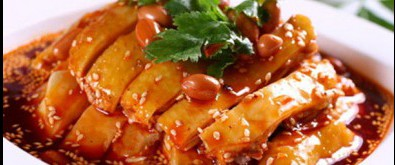
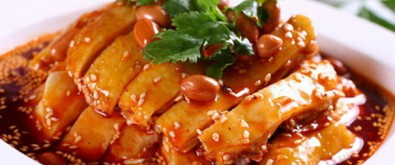
new sidedish table

diff --git a/application/views/admin/sideDishDetail.php b/application/views/admin/sideDishDetail.php
@@ -169,19 +169,19 @@
                                                     <div class="row bootstrap-admin-light-padding-bottom">
                                                         <div class="col-md-4">
                                                             <a class="thumbnail">
-                                                                <img data-src="holder.js/260x180" alt="260x180" style="width: 100%; height: 100%;" src="/copex/upload/<?php
+                                                                <img data-src="holder.js/260x180" alt="260x180" style="width: 100%; height: 100%;" src="/copex/upload/side/<?php
                                                                 if(isset($_SESSION['upload'])){
-                                                                    echo $_SESSION['upload']['upload_data']['raw_name'];
+                                                                    echo $_SESSION['upload'];
                                                                 }else{
                                                                     echo  $_SESSION['side']->spicture;
                                                                 }
-                                                                ?>.jpg">
+                                                                ?>">
                                                             </a>
                                                             <?php
 
-                                                            echo '<input form="editSideDish" type="hidden" name="dishPicture" value="';
+                                                            echo '<input form="uploadSideDish" type="hidden" name="dishPicture" value="';
                                                             if(isset($_SESSION['upload'])){
-                                                                echo $_SESSION['upload']['upload_data']['raw_name'];
+                                                                echo $_SESSION['upload'];
                                                             }else{
                                                                 echo $_SESSION['side']->spicture;
                                                             }
@@ -189,26 +189,22 @@
 
                                                             ?>
                                                         </div>
+                                                        <div class="col-lg-4">
+                                                            <input form="uploadSideDish" class="form-control" type="file" name="userfile" />
+                                                            <!--                                                        </div>-->
+                                                            <div style="margin-top: 10px;">
+                                                                <span style="margin-top: 10px;">
 
-                                                        <div class="col-md-8">
-                                                            <label class="col-lg-2 control-label">更换图片:</label>
-                                                        </div>
-                                                        <div class="col-lg-8" style="margin-top: 10px;">
+                                                                    <input form="uploadSideDish" type="submit" class="btn btn-sm btn-info" name="picture" value=" 确认上传"/>
 
-                                                            <input form="uploadSideDish" class="form-control" type="file" name="picture" />
-                                                        </div>
-                                                        <div class="col-lg-8" style="margin-top: 10px;">
-                                                            <span>
-                                                                <button form="uploadSideDish" type="submit" class="btn btn-sm btn-info">
-                                                                    <i class="glyphicon glyphicon-upload"> 确认上传</i>
-                                                                </button>
-                                                            </span>
-                                                            <span>
-                                                                <?php
-                                                                $attributes_undo = array('class'=>'btn btn-sm btn-default','type'=>'reset');
-                                                                echo anchor('dishcontroller/undoSideDish','<i class="glyphicon glyphicon-refresh"> 取消修改</i>',$attributes_undo);
-                                                                ?>
-                                                            </span>
+                                                                </span>
+                                                                <span>
+                                                                    <?php
+                                                                    $attributes_undo = array('class'=>'btn btn-sm btn-default','type'=>'reset');
+                                                                    echo anchor('dishcontroller/undoFood',' 取消修改',$attributes_undo);
+                                                                    ?>
+                                                                </span>
+                                                            </div>
                                                         </div>
                                                     </div>
                                                 </div>

diff --git a/application/models/pictureupload.php b/application/models/pictureupload.php
@@ -11,6 +11,7 @@ class Pictureupload extends CI_Model{
     var $picture_path;
     var $picture_recomd_path;
     var $picture_normal_path;
+    var $picture_side_path;
     var $file_name;
 
     function __construct(){
@@ -19,17 +20,18 @@ class Pictureupload extends CI_Model{
         $this->picture_path = realpath(APPPATH.'../upload');
         $this->picture_recomd_path = realpath(APPPATH.'../upload/recommend');
         $this->picture_normal_path = realpath(APPPATH.'../upload/normal');
+        $this->picture_side_path = realpath(APPPATH.'../upload/side');
     }
 
-    function do_upload(){
+    public function do_upload(){
 
         $config = array(
             'upload_path' => './upload/',
             'allowed_types' => 'gif|jpg|png|jpeg',
             'overwrite' => FALSE,
             'max_size' => 2048,
-            'max_width' => 1024,
-            'max_height' => 768,
+            'max_width' => 1500,
+            'max_height' => 1500,
         );
         $this->load->library('upload',$config);
         $this->upload->do_upload();
@@ -45,7 +47,7 @@ class Pictureupload extends CI_Model{
         $config1['source_image'] = $image_data['full_path'];
         $config1['new_image'] = $this->picture_recomd_path;
         $config1['maintain_ratio'] = TRUE;
-        if($width <= $height){
+        if(($width/$height)<=(395/165)){
             $config1['master_dim'] = 'width';
         }else{
             $config1['master_dim'] = 'height';
@@ -60,7 +62,7 @@ class Pictureupload extends CI_Model{
         // 2. crop for recommend food
         $config2['source_image'] = $this->picture_recomd_path."/$file_name";
         $config2['maintain_ratio'] = false;
-        if($width <= $height){
+        if(($width/$height)<=(395/165)){
             $config2['y_axis'] = floor(($height*395/$width-165)/2);
         }else{
             $config2['x_axis'] = floor(($width*165/$height-395)/2);
@@ -75,7 +77,7 @@ class Pictureupload extends CI_Model{
         $config3['source_image'] = $image_data['full_path'];
         $config3['new_image'] = $this->picture_normal_path;
         $config3['maintain_ratio'] = TRUE;
-        if($width <= $height){
+        if(($width/$height)<=(190/215)){
             $config3['master_dim'] = 'width';
         }else{
             $config3['master_dim'] = 'height';
@@ -86,10 +88,10 @@ class Pictureupload extends CI_Model{
 
         $this->reSize($config3);
 
-        // 2. crop for recommend food
+        // 4. crop for recommend food
         $config4['source_image'] = $this->picture_normal_path."/$file_name";
         $config4['maintain_ratio'] = false;
-        if($width <= $height){
+        if(($width/$height)<=(190/215)){
             $config4['y_axis'] = floor(($height*190/$width-215)/2);
         }else{
             $config4['x_axis'] = floor(($width*215/$height-190)/2);
@@ -100,6 +102,57 @@ class Pictureupload extends CI_Model{
 
         $this->cropFood($config4);
 
+        return $this;
+    }
+
+    public function do_upload_sidedish(){
+
+        $config = array(
+            'upload_path' => './upload/side/',
+            'allowed_types' => 'gif|jpg|png|jpeg',
+            'overwrite' => FALSE,
+            'max_size' => 2048,
+            'max_width' => 1500,
+            'max_height' => 1500,
+        );
+        $this->load->library('upload',$config);
+        $this->upload->do_upload();
+        $image_data = $this->upload->data();
+        $file_name = $image_data['file_name'];
+        $width = $image_data['image_width'];
+        $height = $image_data['image_height'];
+
+        $this->file_name = $file_name;
+
+        // 1.resize for recommend food
+        $config1['source_image'] = $image_data['full_path'];
+//        $config1['new_image'] = $this->picture_recomd_path;
+        $config1['maintain_ratio'] = TRUE;
+        if(($width/$height)<=(260/130)){
+            $config1['master_dim'] = 'width';
+        }else{
+            $config1['master_dim'] = 'height';
+        }
+
+        $config1['width'] = '260';
+        $config1['height'] = '130';
+
+        $this->reSize($config1);
+
+
+        // 2. crop for side dish
+        $config2['source_image'] = $this->picture_side_path."/$file_name";
+        $config2['maintain_ratio'] = false;
+        if(($width/$height)<=(260/130)){
+            $config2['y_axis'] = floor(($height*260/$width-130)/2);
+        }else{
+            $config2['x_axis'] = floor(($width*130/$height-260)/2);
+        }
+
+        $config2['width'] = '260';
+        $config2['height'] = '130';
+
+        $this->cropFood($config2);
         return $this;
     }
 

diff --git a/application/controllers/dishcontroller.php b/application/controllers/dishcontroller.php
@@ -212,27 +212,21 @@ class Dishcontroller extends MY_Controller{
     // upload file
     public function uploadSideDish(){
 
-        $config['upload_path'] = './upload/';
-        $config['allowed_types'] = 'gif|jpg|png';
-        $config['overwrite'] = 'FALSE';
-        $config['max_size'] = '204800';
-        $config['max_width']  = '1024';
-        $config['max_height']  = '768';
+        $this->load->model('pictureupload');
+        if($this->input->post('picture')){
+            $picture = $this->pictureupload->do_upload_sidedish();
 
-        $this->load->library('upload', $config);
-        // check if upload successfully
-        if ($this->upload->do_upload('picture')) { //success
-            $upload = array('upload_data' =>$this->upload->data()); //store picture's info
             if(isset($_SESSION['upload'])){
                 unset($_SESSION['upload']);
             }
-            $_SESSION['upload'] = $upload;
 
+            $_SESSION['upload'] = $picture->file_name;
+//            echo $_SESSION['upload']->file_name;
+//            die();
             return redirect('dishcontroller/showSideDetail');
-        } else { //upload failed
-            $data['error'] = array('error' =>$this->upload->display_errors());//store error info
-            var_dump($data['error']); //打印错误信息
         }
+        return redirect('dishcontroller/showSideDetail/wrong');
+
     }
 
     public function undoSideDish(){

diff --git a/application/views/sidedish.php b/application/views/sidedish.php
@@ -92,7 +92,7 @@ echo form_open('marketcontroller/vipOrderGenerate',$attributes);
             echo (isset($selectedSd[$id]))?'"sd-selected"':'';
             echo '><div class="menuD_img sd_img"><img src="/copex/upload/';
             echo $sideDish[$i]->spicture;
-            echo '.jpg" width="100%" height="100%" /></div>';
+            echo '" width="100%" height="100%" /></div>';
             echo '<div class="menuD_title sd_title">'.$sideDish[$i]->sname.'</div>';
             echo '<div class="menuD_price sd_price">$<span class="sd_price_num">'.$sideDish[$i]->sprice.'</span></div></label></li>';
         }
